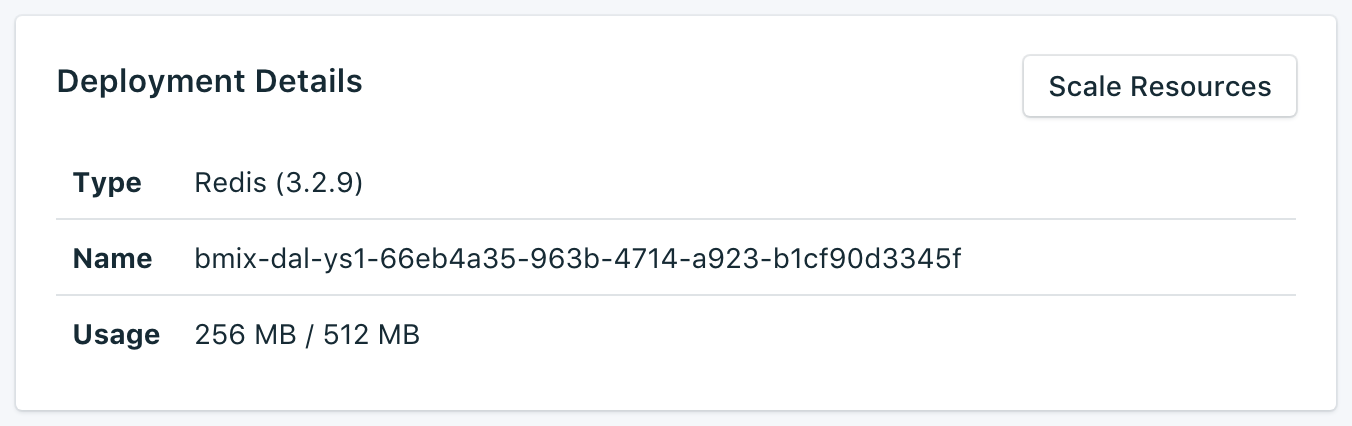
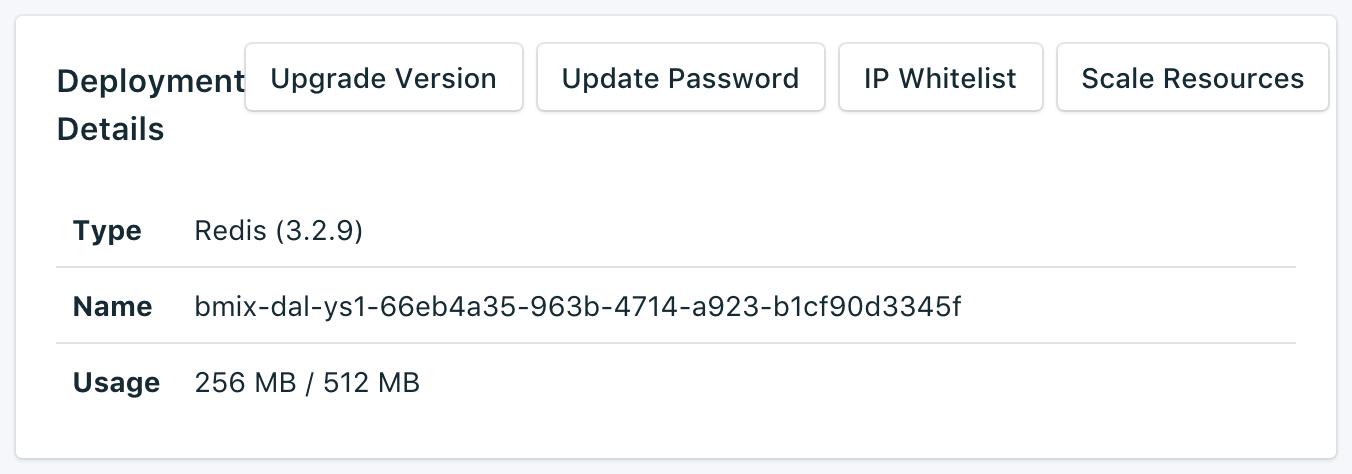
Oct 17 updates

diff --git a/dashboard-backups.md b/dashboard-backups.md
@@ -22,6 +22,10 @@ Daily backups of your database are automatically scheduled. To view your existin
 
 ![Backups](./images/redis-backups-show.png "A list of backups in the service dashboard")
 
+Click on the corresponding row to expand the options for any available backup.
+
+![Backup Options](./images/redis-backups-options.png "Options for a backup.") 
+
 ## Creating a backup on demand
 
 As well as scheduled backups you can create a backup manually. To create a manual backup, navigate to the *Manage* page of your service dashboard and click *Backup now*.
@@ -42,3 +46,7 @@ You can use your {{site.data.keyword.composeForRedis}} backup to run a local cop
 2. We will need a Redis configuration file to start up the Redis instance, so you will want to copy a redis.conf file from your install into your db directory with the dump.rdb file. For example, if you installed Redis on OSX with homebrew, the redis.conf file is in `/usr/local/etc`, so from the db directory run, `cp /usr/local/etc/redis.conf .`
 3. Edit the configuration file to point to our current directory when it starts. Open redis.conf with a text editor and change the line `dir /usr/local/var/db/redis/` to `dir .`. Save the file and exit.
 4. Start the redis server in the db directory supplying the configuration file: `redis-server redis.conf`.
+
+## Restoring a backup
+
+To restore a backup to a new service instance, follow the steps to view existing backups, then click in the corresponding row to expand the options for the backup you want to download. Click on the **Restore** button. A message is displayed to let you know that a restore has been initiated. The new service instance will automatically be named "redis-restore-[timestamp]", and appears on your dashboard when provisioning starts.

diff --git a/dashboard-whitelists.md b/dashboard-whitelists.md
@@ -1,0 +1,37 @@
+---
+
+Copyright:
+  Years: 2017
+lastupdated: "2017-10-16"
+---
+
+{:new_window: target="_blank"}
+{:shortdesc: .shortdesc}
+{:screen: .screen}
+{:codeblock: .codeblock}
+{:pre: .pre}
+
+# Whitelists
+
+If you want to restrict access to your databases, you can whitelist specific ip addresses or ranges of ip addresses on your service. When there are no IP addresses in the whitelist, the whitelist is disabled and the deployment will accept connections from any system on the internet.
+
+![Whitelisting IPs](./images/redis-whitelist-show.png "The whitelist fields.")
+
+## IP Addresses
+The *IP* field can take a single complete IPv4 address or IPv6 address with or without a netmask. Without a netmask, incoming connections must come from exactly that IP address. 
+
+Note that although the IP entry allows for IPv6, no Compose deployments are currently available to IPv6 networking and so these addresses cannot be filtered on.
+
+## Netmasks
+To allow a connection from a specified range of IP addresses, use a netmask. The IP address must be fully specified when using a netmask. That means entering, for example, 192.168.1.0/24 rather than 192.168.1/24.
+
+## Description
+The *Description* can be any user-significant text for identifying the whitelist entry - a customer name, project identifier or employee number, for example. The description field is required.
+
+## Compose Services
+Whitelist entries are automatically added to Compose's servers to allow them to connect.
+
+## Removal
+To remove an IP address or netmask from the Whitelist, click the *Remove* entry displayed next to it.
+When all entries on the whitelist are removed, the whitelist will be disabled and all IP addresses will be accepted by the TCP access portals.
+

diff --git a/dashboard-update-service-password.md b/dashboard-update-service-password.md
@@ -1,0 +1,31 @@
+---
+
+Copyright:
+  Years: 2017
+lastupdated: "2017-10-16"
+---
+
+{:new_window: target="_blank"}
+{:shortdesc: .shortdesc}
+{:screen: .screen}
+{:codeblock: .codeblock}
+{:pre: .pre}
+
+# Updating the Service Password
+
+You might find it necessary to change the password of your service. You can do so using _Update Password_. 
+
+A new, randomly generated password will appear, or you can type your own password into the field. To regenerate another password, click on the dice to the right of the field. 
+  
+![Updating the Redis password](./images/redis-update-password.png "The automatic password generator")
+
+The changes take effect when you click on the **Update Password** button. This will change the credentials that you and your services use to connect and is a part of your service's connection string. The _Deployment Details_ pane will show the progress of the job that is now in progress:
+
+![Update password job running](./images/redis-update-password-running.png "The Deployment Details pane, showing one running job: Change Redis password running")
+
+## Updating Connected Applications
+Changing the password will invalidate the existing connection string and generate a new one. This will cause a service interruption until connected applications are updated with the new connection string. You will have to do this by suppling the new connection string to your applications.
+
+More information on connecting your applications is in [Connecting a Bluemix Application](./connecting-bluemix-app.html).
+and [Connecting an external application](./connecting-external.html).
+

diff --git a/index.md b/index.md
@@ -2,7 +2,7 @@
 
 copyright:
   years: 2016,2017
-lastupdated: "2017-07-13"
+lastupdated: "2017-10-16"
 ---
 
 {:new_window: target="_blank"}
@@ -29,7 +29,7 @@ When you provision your {{site.data.keyword.composeForRedis}} instance you can c
 
 ## Managing Compose for Redis
 
-You can manage your service from the service dashboard. Here you can find information about your Bluemix Compose database and how to connect to it. You can also manage your backups from the dashboard and allocated more resources for your service. For more information, see [Service Overview](./dashboard-overview.html), [Backups](./dashboard-backups.html), and [Scaling Resources](./dashboard-scaling-resources.md).
+You can manage your service from the service dashboard. Here you can find information about your Bluemix Compose database and how to connect to it. You can also manage your backups, allocate more resources for your service, use whitelists to restrict access to your databases, and reset the service password. For more information, see [Service Overview](./dashboard-overview.html), [Backups](./dashboard-backups.html), [Scaling Resources](./dashboard-scaling-resources.html), [Whitelists](./dashboard-whitelists.html), and [Updating the Service Password](./dashboard-update-service-password.html).
 
 ## Connecting to Compose for Redis
 
